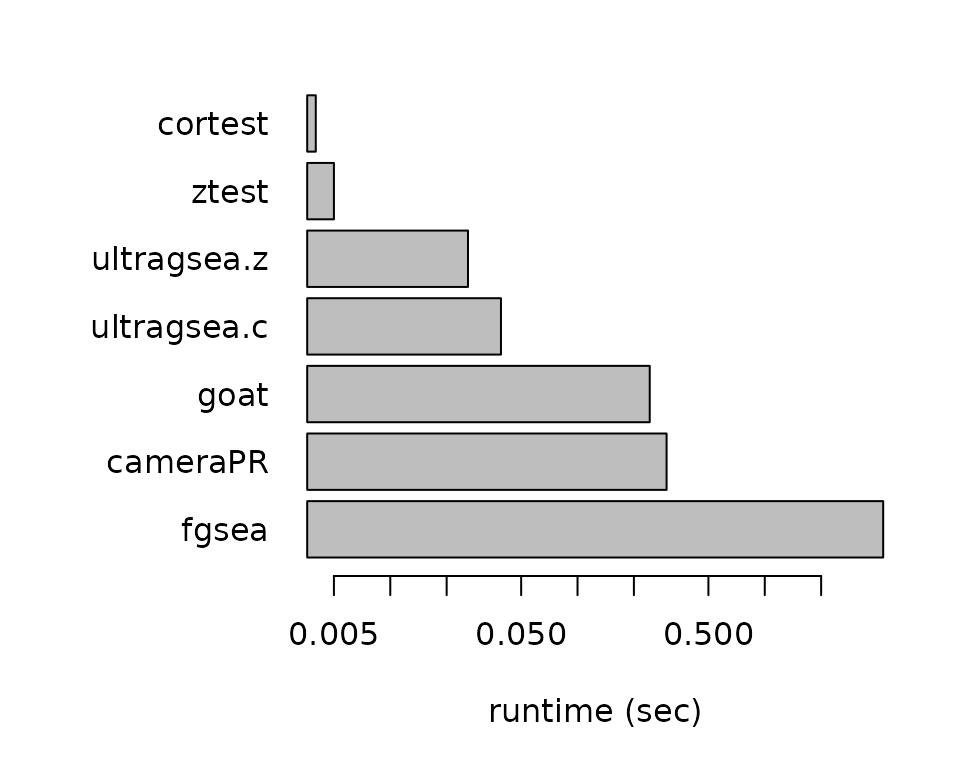
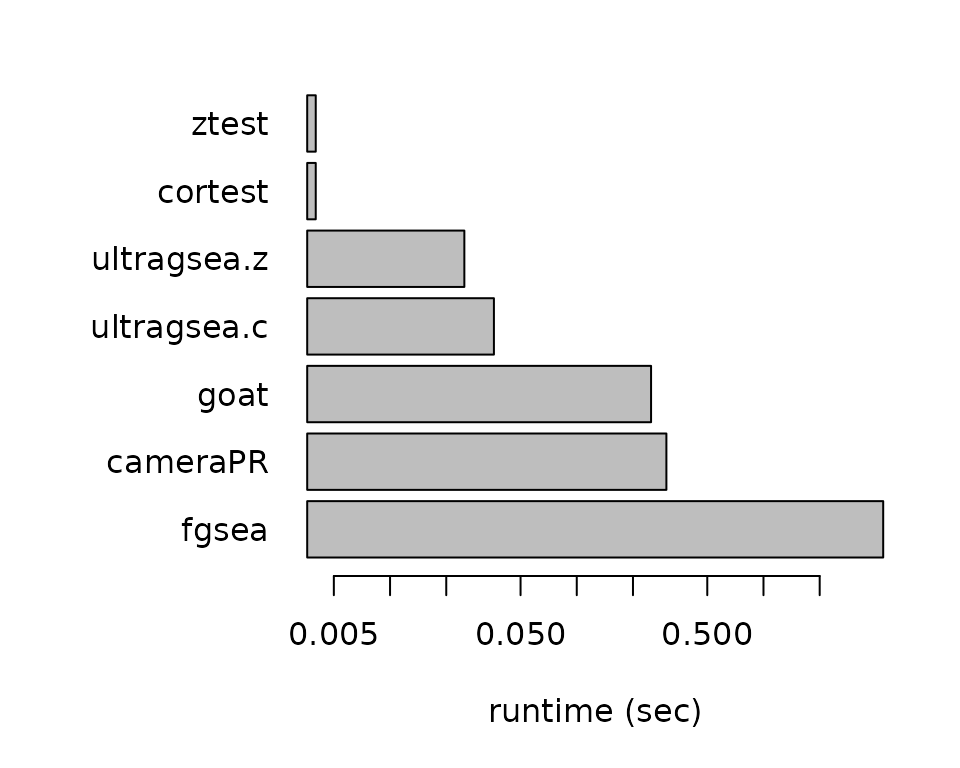
Deploying to gh-pages from @ bigomics/ultragsea@4e987d946a6a38dd82c71458d7a43f380cd725bb 🚀

diff --git a/articles/compare-methods.html b/articles/compare-methods.html
@@ -171,25 +171,25 @@ of each method.</p>
 <tbody>
 <tr class="odd">
 <td align="left">fgsea</td>
-<td align="right">4.290</td>
+<td align="right">4.377</td>
 <td align="right">4.0</td>
 <td align="right">43.8</td>
 </tr>
 <tr class="even">
 <td align="left">cameraPR</td>
-<td align="right">0.299</td>
+<td align="right">0.302</td>
 <td align="right">0.8</td>
 <td align="right">42.5</td>
 </tr>
 <tr class="odd">
 <td align="left">ultragsea.z</td>
-<td align="right">0.026</td>
+<td align="right">0.025</td>
 <td align="right">0.1</td>
 <td align="right">5.8</td>
 </tr>
 <tr class="even">
 <td align="left">ultragsea.c</td>
-<td align="right">0.039</td>
+<td align="right">0.036</td>
 <td align="right">0.9</td>
 <td align="right">9.5</td>
 </tr>
@@ -201,13 +201,13 @@ of each method.</p>
 </tr>
 <tr class="even">
 <td align="left">ztest</td>
-<td align="right">0.005</td>
+<td align="right">0.004</td>
 <td align="right">0.0</td>
 <td align="right">2.8</td>
 </tr>
 <tr class="odd">
 <td align="left">goat</td>
-<td align="right">0.243</td>
+<td align="right">0.250</td>
 <td align="right">4.4</td>
 <td align="right">23.7</td>
 </tr>
@@ -279,10 +279,10 @@ fgsea::fgsea()</p>
 <div class="sourceCode" id="cb8"><pre class="downlit sourceCode r">
 <code class="sourceCode R"><span><span class="fu"><a href="https://rdrr.io/r/base/system.time.html" class="external-link">system.time</a></span><span class="op">(</span><span class="va">res1</span> <span class="op">&lt;-</span> <span class="fu">fgsea</span><span class="fu">::</span><span class="fu"><a href="https://rdrr.io/pkg/fgsea/man/fgsea.html" class="external-link">fgsea</a></span><span class="op">(</span><span class="va">gmt</span>, <span class="va">fc</span><span class="op">)</span><span class="op">)</span></span>
 <span><span class="co">#&gt;    user  system elapsed </span></span>
-<span><span class="co">#&gt;   5.546   0.096   3.602</span></span>
+<span><span class="co">#&gt;   5.775   0.058   3.706</span></span>
 <span><span class="fu"><a href="https://rdrr.io/r/base/system.time.html" class="external-link">system.time</a></span><span class="op">(</span><span class="va">res2</span> <span class="op">&lt;-</span> <span class="fu">ultragsea</span><span class="fu">::</span><span class="fu"><a href="../reference/fgsea.html">fgsea</a></span><span class="op">(</span><span class="va">gmt</span>, <span class="va">fc</span><span class="op">)</span><span class="op">)</span></span>
 <span><span class="co">#&gt;    user  system elapsed </span></span>
-<span><span class="co">#&gt;   0.227   0.109   0.268</span></span></code></pre></div>
+<span><span class="co">#&gt;   0.209   0.084   0.238</span></span></code></pre></div>
 </div>
 </div>
   </main><aside class="col-md-3"><nav id="toc" aria-label="Table of contents"><h2>On this page</h2>

diff --git a/articles/benchmark.html b/articles/benchmark.html
@@ -95,11 +95,13 @@ corpora R package) based on the hypergeometric function
 <li>GOAT: see corresponding R package.</li>
 <li>cameraPR: preranked camera from the limma R package.</li>
 <li>fGSEA: fast GSEA from the <code>fgsea</code> R package</li>
+<li>Plaid: a single-sample enrichment followed by a t-test.</li>
+<li>dual: combination of Plaid and ultraC.</li>
 </ol>
 <p>From <strong>Figure 1</strong> we see that ultragsea methods (ultraC
-and ultraZ) are the fastest, about 100 faster than fGSEA. While in
-<strong>Figure 2</strong> we can see that ultraC also achieves the
-highest relevance compared to the others.</p>
+and ultraZ) are the fastest, about 100 faster than fGSEA. <strong>Figure
+2</strong> shows that ultraC also achieves the highest relevance
+compared to the others.</p>
 <div class="float">
 <img src="fig/benchmark-runtime.png" alt="Figure 1. Run time of enrichment methods."><div class="figcaption">
 <strong>Figure 1</strong>. Run time of
@@ -125,7 +127,7 @@ assessment of the TPR/FPR of EA methods.</p>
 <p>EAbenchmark evaluates the false positive rate (FPR) performance of
 the EA methods on randomized data (see <strong>Figure 3</strong>). An
 ideal method would not report any significantly enriched gene sets.</p>
-<p><strong>Figure 4</strong> plot the distribution of p-values of the
+<p><strong>Figure 4</strong> plots the distribution of p-values of the
 methods under the null hypothesis. Enrichment analysis methods should
 produce P-values that are uniformly distributed but in practice they are
 either biased toward 0 or 1 or exhibit a bimodal distribution biased

diff --git a/articles/compare-methods.md b/articles/compare-methods.md
@@ -101,13 +101,13 @@ kableExtra::kable(tt)
 
 | Function_Call | Elapsed_Time_sec | Total_RAM_Used_MiB | Peak_RAM_Used_MiB |
 |:--------------|-----------------:|-------------------:|------------------:|
-| fgsea         |            4.290 |                4.0 |              43.8 |
-| cameraPR      |            0.299 |                0.8 |              42.5 |
-| ultragsea.z   |            0.026 |                0.1 |               5.8 |
-| ultragsea.c   |            0.039 |                0.9 |               9.5 |
+| fgsea         |            4.377 |                4.0 |              43.8 |
+| cameraPR      |            0.302 |                0.8 |              42.5 |
+| ultragsea.z   |            0.025 |                0.1 |               5.8 |
+| ultragsea.c   |            0.036 |                0.9 |               9.5 |
 | cortest       |            0.004 |                0.1 |               2.8 |
-| ztest         |            0.005 |                0.0 |               2.8 |
-| goat          |            0.243 |                4.4 |              23.7 |
+| ztest         |            0.004 |                0.0 |               2.8 |
+| goat          |            0.250 |                4.4 |              23.7 |
 
 ``` r
 rt <- tt[,2]
@@ -185,8 +185,8 @@ fgsea::fgsea()
 ``` r
 system.time(res1 <- fgsea::fgsea(gmt, fc))
 #>    user  system elapsed 
-#>   5.546   0.096   3.602
+#>   5.775   0.058   3.706
 system.time(res2 <- ultragsea::fgsea(gmt, fc))
 #>    user  system elapsed 
-#>   0.227   0.109   0.268
+#>   0.209   0.084   0.238
 ```

diff --git a/articles/benchmark.md b/articles/benchmark.md
@@ -29,11 +29,12 @@ collections). We ran the following methods through the benchmark:
 4.  GOAT: see corresponding R package.
 5.  cameraPR: preranked camera from the limma R package.
 6.  fGSEA: fast GSEA from the `fgsea` R package
+7.  Plaid: a single-sample enrichment followed by a t-test.
+8.  dual: combination of Plaid and ultraC.
 
 From **Figure 1** we see that ultragsea methods (ultraC and ultraZ) are
-the fastest, about 100 faster than fGSEA. While in **Figure 2** we can
-see that ultraC also achieves the highest relevance compared to the
-others.
+the fastest, about 100 faster than fGSEA. **Figure 2** shows that ultraC
+also achieves the highest relevance compared to the others.
 
 ![Figure 1. Run time of enrichment methods.](fig/benchmark-runtime.png)
 
@@ -61,7 +62,7 @@ EAbenchmark evaluates the false positive rate (FPR) performance of the
 EA methods on randomized data (see **Figure 3**). An ideal method would
 not report any significantly enriched gene sets.
 
-**Figure 4** plot the distribution of p-values of the methods under the
+**Figure 4** plots the distribution of p-values of the methods under the
 null hypothesis. Enrichment analysis methods should produce P-values
 that are uniformly distributed but in practice they are either biased
 toward 0 or 1 or exhibit a bimodal distribution biased toward both
